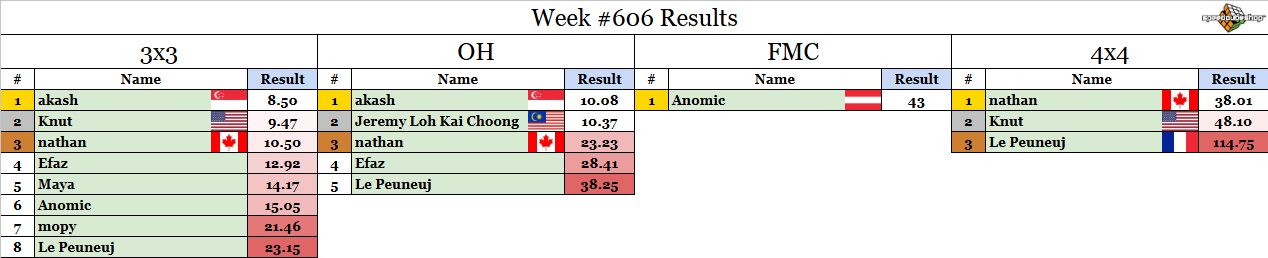
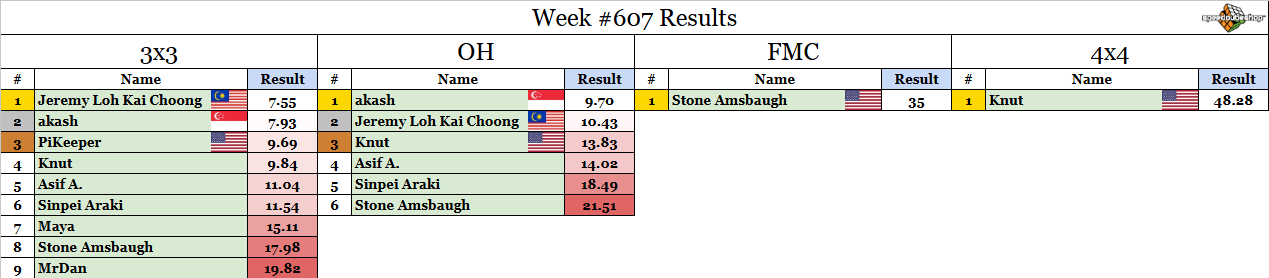
weekly comp update

Changed region(s): [[0.0, 0.0, 1.0, 1.0]]

diff --git a/src/weeklycomp/post.md b/src/weeklycomp/post.md
@@ -1,10 +1,10 @@
-## Weekly Competition #607 
+## Weekly Competition #608 
  
 Sponsored by SpeedCubeShop
 Shop here: [speedcubeshop.com/rouxcomp](https://speedcubeshop.com/rouxcomp)
 Use code ROUX for 5% off
 
-One competitor will be selected at random to receive a $5 SCS gift card! Congrats to last week's winner by a random draw: **Le Peuneuj**. DM me for the prize. 
+One competitor will be selected at random to receive a $5 SCS gift card! Congrats to last week's winner by a random draw: **Maya**. DM me for the prize. 
  
 Check whether or not you participated this week yet at [https://bit.ly/RMSWeeklyCompSummary](https://bit.ly/RMSWeeklyCompSummary)  
  
@@ -18,28 +18,29 @@ Check whether or not you participated this week yet at [https://bit.ly/RMSWeekly
  7. The comp runs until Sunday 5pm Eastern time (more or less). Enter your times using the forms links below. 
  
 ### 3x3: [Submission Form](https://forms.gle/H5xoCWvGKnZ92fQt8) 
- 1. L U' B U L2 D2 L' F L' D2 L' D2 F2 L U2 B2 L2 D2 B2 L 
- 2. R B2 D' R2 B U' D2 B' R B2 R2 U' D' R2 F2 D F2 U' B2 U2 R2 
- 3. F2 L2 U2 R U2 L' B2 L2 D2 R2 U2 B2 U' B D2 F R B' L B2 R' 
- 4. R2 F D' F2 R2 D2 U2 B2 L D2 L U2 L F2 D' B' U2 L2 B D2 U' 
- 5. F L' U' D2 F R B U B2 R2 F2 R2 D' R2 D L2 U D L2 R' B2 
+ 1. F' R F2 B2 D2 F' U R' B D2 F' L2 D2 L2 D2 F2 B U2 R2 F2 U 
+ 2. D F R2 D2 L' U' F' B' D' B D2 F D2 F' L2 U2 D2 F' U2 
+ 3. F' L F2 D F2 U R2 D' B2 D2 R2 B2 R2 F2 R' D R' B R' F R 
+ 4. B2 U2 B2 L2 B2 U2 R2 U L2 U B2 D2 L B' L2 D2 L2 F2 R' D' U2 
+ 5. U B L F R2 B2 D R' F2 L2 F2 D2 R2 U' F2 D' R2 B2 U R' 
  
 ### OH: [Submission Form](https://forms.gle/UgRLW3K1d5KkMGfM9) 
- 1. D' B2 D' B2 U2 R2 F2 R2 F2 U L' B' L' F D L' B2 F' U F' 
- 2. F2 D B2 D2 R2 F' R2 F2 D2 F R2 U2 B R2 D R F2 U B' F' L 
- 3. D B' U' R2 U L2 F2 D F2 D2 R2 B2 U B D2 R' U' L R2 B' F 
- 4. F' D2 B L2 D2 B R2 D2 B2 U R' D2 U F L' B2 U2 B' U 
- 5. D2 R' U' B U D' R U' R2 F' R2 D2 L2 U2 L2 F L2 F R2 
+ 1. L' F' D F' R2 F L U' F' D2 R2 L' B2 D2 R2 F2 D2 R F2 D2 
+ 2. R L2 U' L2 B2 U' L2 F2 U' B2 U2 B2 L B' R2 D' L' R B D2 
+ 3. U R' F2 L F' R2 B' R2 U' R' F2 R' F2 B2 D2 R2 B2 U2 R2 F2 
+ 4. F' L2 D2 B2 R2 D2 F' D2 F' D F U2 R F L R B R 
+ 5. F2 L' B2 D2 B' L2 B R B' R2 F2 B2 U F2 D F2 U D2 F2 
  
 ### FMC: [Submission Form](https://forms.gle/1P9VUgZmA1pibwvL9) 
- 1. R' U' F L2 U2 B2 L' D2 R2 B2 L' F2 L U2 B D L R B2 U' F' D' F' R' U' F 
+ 1. R' U' F L2 U' D2 F U B' D B R D F2 R2 U2 R2 D F2 U2 L2 F2 R' U' F 
  
 ### 4x4: [Submission Form](https://forms.gle/bHNjncvEcPvFWBP2A) 
- 1. R' D2 R2 U2 R U2 F U L' U2 L U2 R B2 R U2 L2 D2 B2 Fw2 Rw2 B2 L F' Uw2 F Fw2 R' D2 Uw2 B Uw' Fw2 Uw2 L' U2 D2 Fw' Rw Uw2 Fw' R Fw2 U 
- 2. U2 B L B' U' D L U2 F2 D2 L2 B2 L2 B2 U F2 U F' Fw2 L B2 U Rw2 U' L2 D' Fw2 U' F2 Uw2 R' Fw L' B' U Fw' R2 Uw' Rw' Fw Uw R' D Rw' 
- 3. B2 R2 F D2 F' R2 B' D2 L2 F' R2 D L2 D' B' L' B' U' D2 R D Uw2 B' Fw2 Rw2 D2 L B D2 R2 Uw2 F' B' L Uw' Rw2 F2 D' Fw' R2 Rw' U R2 D Fw2 R' 
- 4. B' R2 U B2 U L2 U L2 F2 R2 B2 U R' D' B' U L' U F2 U2 F' Uw2 L B2 U Uw2 R' D' L Uw2 Rw2 D' F2 R' Fw R Rw2 U' Rw' Uw' Fw' U' D2 Uw B' R2 
- 5. F' D F L' U F' U R' U L2 U' B2 U' B2 L2 D' B2 U2 R L2 Uw2 F R' L2 U2 B' Uw2 R2 B' Uw2 R2 L' Uw' B U' Rw2 Fw' Rw2 Fw R' Rw' U Fw 
+ 1. F2 R B' R' D L D B2 U2 D' B2 R' B2 L F2 L' B2 D2 Rw2 B R2 Uw2 B2 U2 R D2 B L' Fw2 L2 Rw2 U' R' Uw' L' Fw R2 D2 Rw' Fw Uw2 R' Rw 
+ 2. R F' D2 F D2 F' L2 B U2 B2 L2 F' U2 D' R U B' R U' L2 B Uw2 B2 L Rw2 U Fw2 R' L2 U2 R F2 Fw' U' L' F' R' Rw Uw2 R2 D Fw2 Uw' R' 
+ 3. D2 R L2 F2 D2 F' U B L2 B L2 F D2 B2 R2 B2 L2 B' R B Rw2 Uw2 F2 D R2 U' B' Uw2 Fw2 D' B Uw2 Rw' F D' B U D Uw F2 Uw2 Fw2 Rw' F L2 
+ 4. D' B R' D2 R2 L2 D B2 D2 F2 D R2 U L' F L' B' D L' D2 Uw2 B Fw2 U B2 Uw2 B' Fw2 L2 U' B' U' F' Rw' U F' Rw B L2 F2 Rw Fw Rw U2 B' 
+ 5. U2 F' U2 L2 F2 U2 B' D2 R2 D2 B2 D' R D' R2 L' F2 B' U2 Rw2 Fw2 L' D B2 L' Uw2 L B2 U2 R L Fw' U' L' F2 U2 L2 Rw Fw D B2 Uw Fw' Uw 
  
 ### Winning FMC solutions from last week: 
- 1. Anomic, 43 moves: [SOLUTION](https://bit.ly/4zTaaa7)
+ 1. Stone Amsbaugh, 35 moves: [SOLUTION](https://bit.ly/4yUhpO4)
+ 
